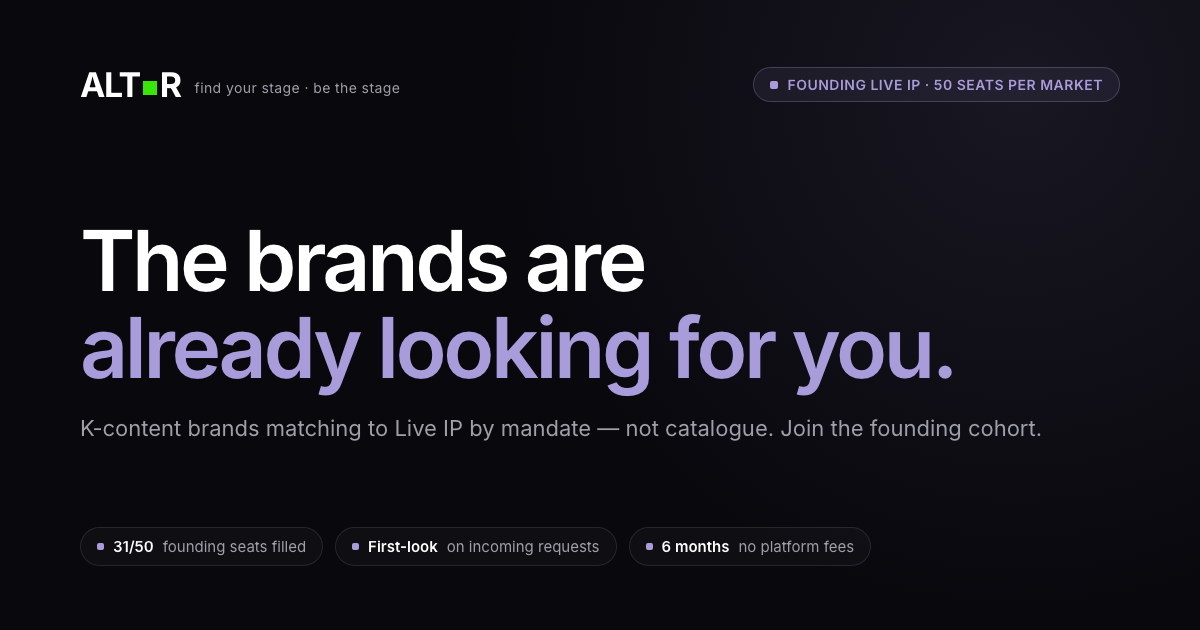
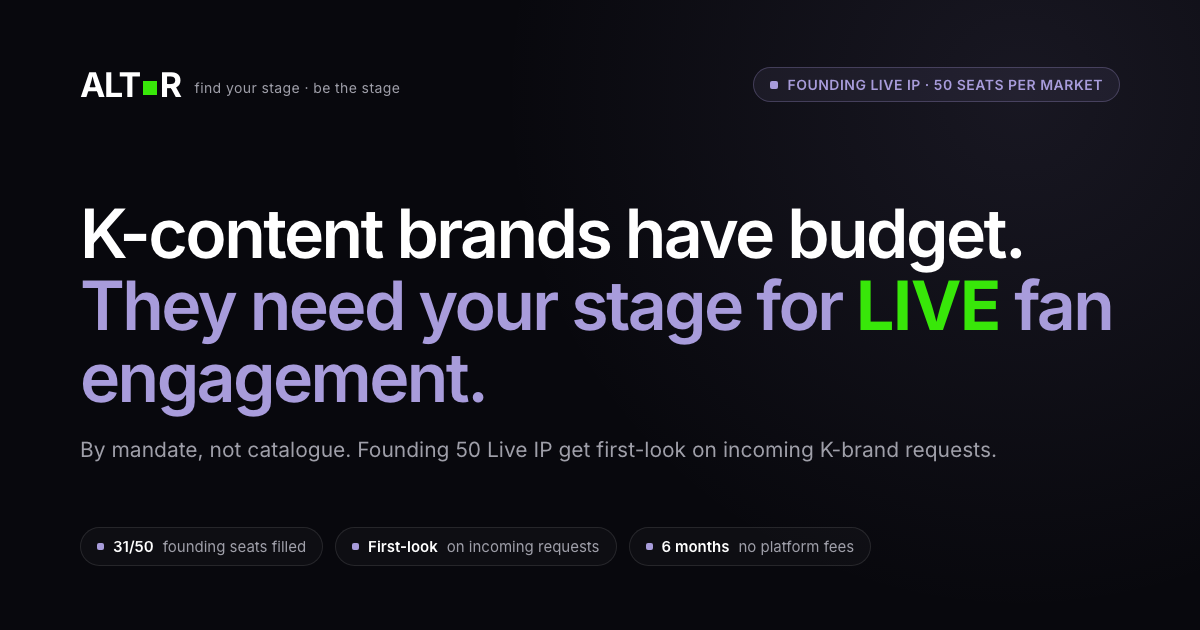
rightholders hero: lead with budget + LIVE fan engagement
Old headline ("The brands are already looking for you") was a vague
benefit. New version names the ask concretely:

  K-content brands have budget.
  They need your stage for LIVE fan engagement.

Why this lands harder:
- Names the two things a venue cares about most — budget + audience
- "LIVE" (lime accent) reinforces the in-person mechanic that
  separates altr from generic digital sponsorship platforms
- Universally true for any venue/region, so no per-market URL param
  or rotating ticker plumbing needed

Sub-lede tightened to one sentence. OG image regenerated.

Changed region(s): [[0.0617, 0.3317, 0.925, 0.7238]]

diff --git a/rightholders/index.html b/rightholders/index.html
@@ -4,12 +4,12 @@
 <meta charset="UTF-8">
 <meta name="viewport" content="width=device-width, initial-scale=1">
 <title>altr — Global Live IP waitlist</title>
-<meta name="description" content="K-content brands are already looking for you. altr matches Live IP with the right K-brands by mandate, not catalogue.">
+<meta name="description" content="K-content brands have budget. They need your stage for LIVE fan engagement. Founding 50 Live IP get first-look on incoming K-brand requests.">
 <meta name="theme-color" content="#08080D">
 
 <meta property="og:type" content="website">
 <meta property="og:title" content="altr — Global Live IP waitlist">
-<meta property="og:description" content="K-content brands ready to activate in your market. First-look on incoming requests before competing Live IP.">
+<meta property="og:description" content="K-content brands have budget. They need your stage for LIVE fan engagement. Founding 50 Live IP get first-look.">
 <meta property="og:image" content="https://stage.altr.haus/rightholders/og-image.png">
 <meta property="og:image:width" content="1200">
 <meta property="og:image:height" content="630">
@@ -45,10 +45,10 @@
 <div class="entry-hero">
   <div class="entry-eyebrow purple"><span class="pdot"></span><span>Founding Live IP · 50 seats per market</span></div>
   <h1 class="entry-h1 purple">
-    <span class="ln1">The brands are</span>
-    <span class="ln2">already looking for you.</span>
+    <span class="ln1">K-content brands have budget.</span>
+    <span class="ln2">They need your stage for <span class="accent-lime">LIVE</span> fan engagement.</span>
   </h1>
-  <p class="entry-lede">K-content brands matching to Live IP by mandate — not catalogue. Join the founding cohort and get first-look on incoming requests before competing Live IP in your region.</p>
+  <p class="entry-lede">By mandate, not catalogue. Founding 50 Live IP get first-look on incoming K-brand requests before competing venues in your region.</p>
   <div class="entry-meta">
     <span class="entry-meta-chip"><span class="dot purple"></span><b>31/50</b> founding seats filled</span>
     <span class="entry-meta-chip"><span class="dot purple"></span><b>First-look</b> on incoming requests</span>

diff --git a/styles.css b/styles.css
@@ -68,6 +68,7 @@ body{font-family:'Inter',-apple-system,BlinkMacSystemFont,'Segoe UI',sans-serif;
 .entry-h1 .ln1,.entry-h1 .ln2{display:block}
 .entry-h1 .ln2{color:var(--mint)}
 .entry-h1.purple .ln2{color:var(--lavender)}
+.entry-h1 .accent-lime{color:var(--lime);font-weight:700;letter-spacing:-1px}
 
 .entry-lede{font-size:15px;color:var(--text-2);line-height:1.55;max-width:540px;margin-bottom:24px;font-weight:400}
 